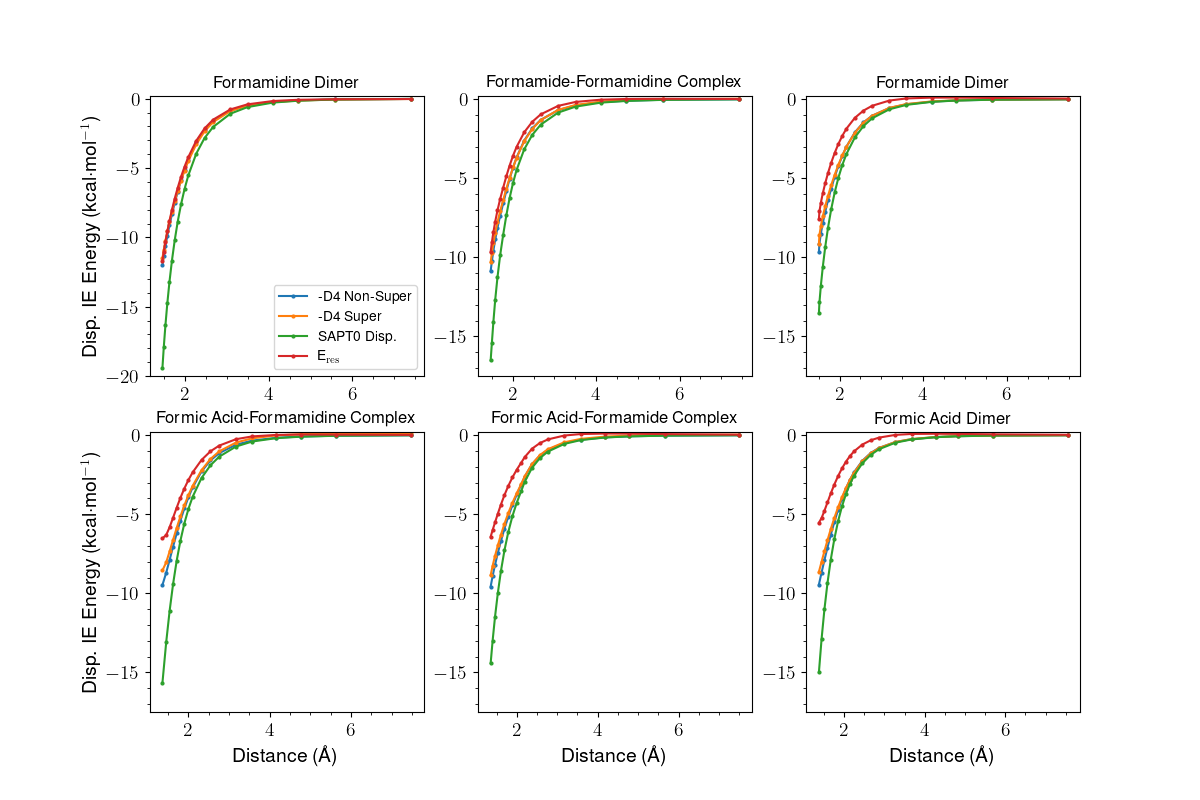
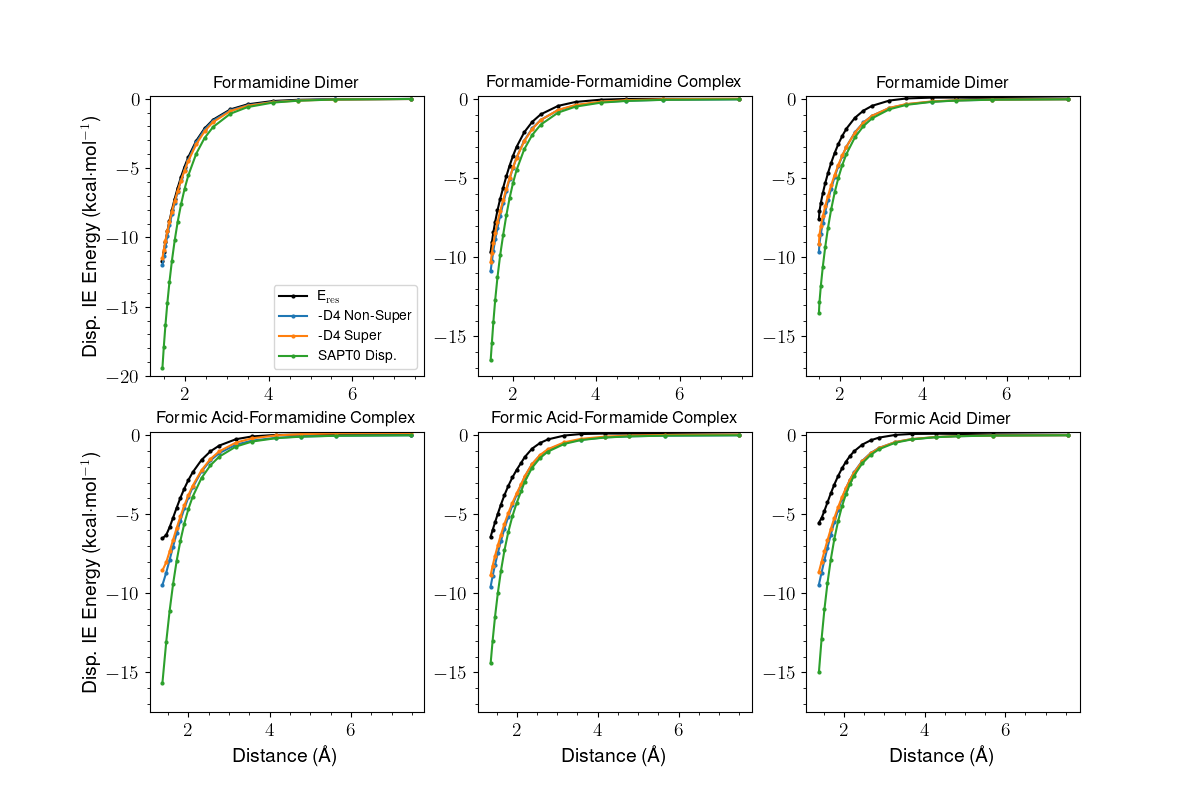
changed e_res to black

diff --git a/plot_hbc6_supermolecular.py b/plot_hbc6_supermolecular.py
@@ -125,12 +125,10 @@ def plot_hbc6(df):
             print(df_sys[["SAPT0_disp", "d4_supra", "d4_super", "E_res", "System #", "distance (A)"]])
             df_sys = df_sys.sort_values("distance (A)")
 
-
-
+            ax[n].plot(df_sys["distance (A)"], df_sys["E_res"], label=r"E$_{\rm res}$", marker="o", markersize=2.0, color='k')
             ax[n].plot(df_sys["distance (A)"], df_sys["d4_supra"], label=f"-D4 Non-Super", marker="o", markersize=2.0)
             ax[n].plot(df_sys["distance (A)"], df_sys["d4_super"], label=f"-D4 Super", marker="o", markersize=2.0)
             ax[n].plot(df_sys["distance (A)"], df_sys["SAPT0_disp"], label=f"SAPT0 Disp.", marker="o", markersize=2.0)
-            ax[n].plot(df_sys["distance (A)"], df_sys["E_res"], label=r"E$_{\rm res}$", marker="o", markersize=2.0)
             sys_name = df_sys["System"].iloc[0]
             ax[n].set_title(f"{sys_name}")
             if n == 0:
